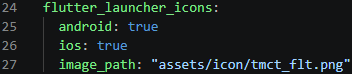
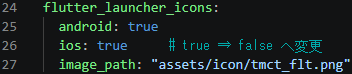
Environment update

diff --git a/docs/02_Development.md b/docs/02_Development.md
@@ -135,7 +135,7 @@ dart run flutter_launcher_icons
 > iOS環境を作成していない場合の **Warning** メッセージ  
 > 　[<img src="./assets/cmd/M_CMD_02-07_dart=run=flutter_luncher_icons-R-W.png" width="540">](./assets/cmd/M_CMD_02-07_dart=run=flutter_luncher_icons-R-W.png)  
 > 原因はiconファイルのフォルダ階層かファイル名の不一致。  
-> またはpubspec.yamlで"ios:**True**"になってる ⇒ **False**へ変更。  
+> またはpubspec.yamlで"ios:**true**"になってる ⇒ **False**へ変更。  
 > 　<img src="./assets/cmd/M_SRC_02-01_dart=run=flutter_luncher_icons=yaml.png">  
   
 <details>  
